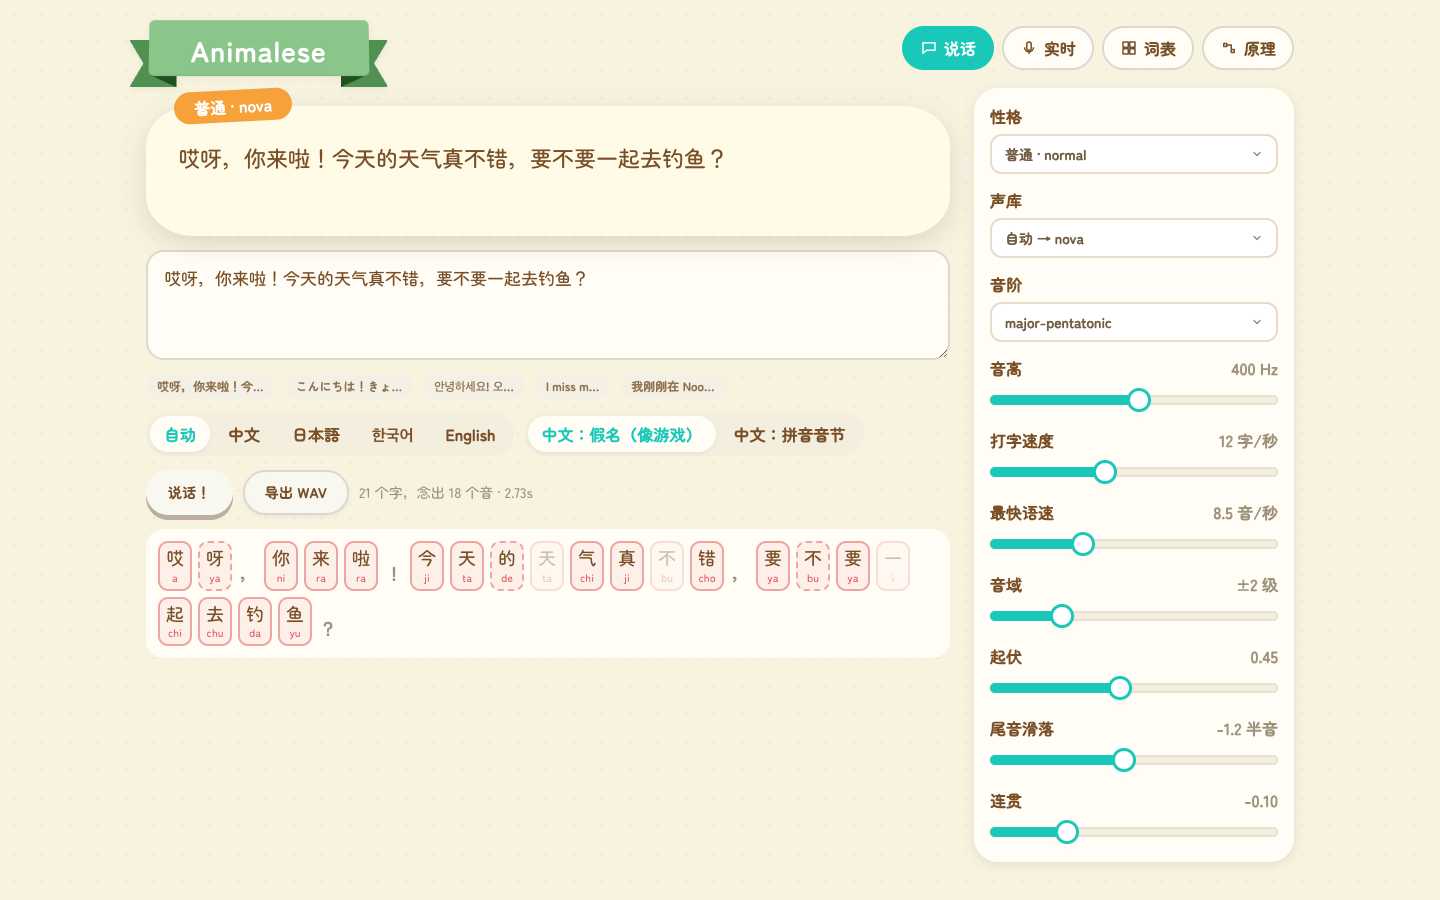
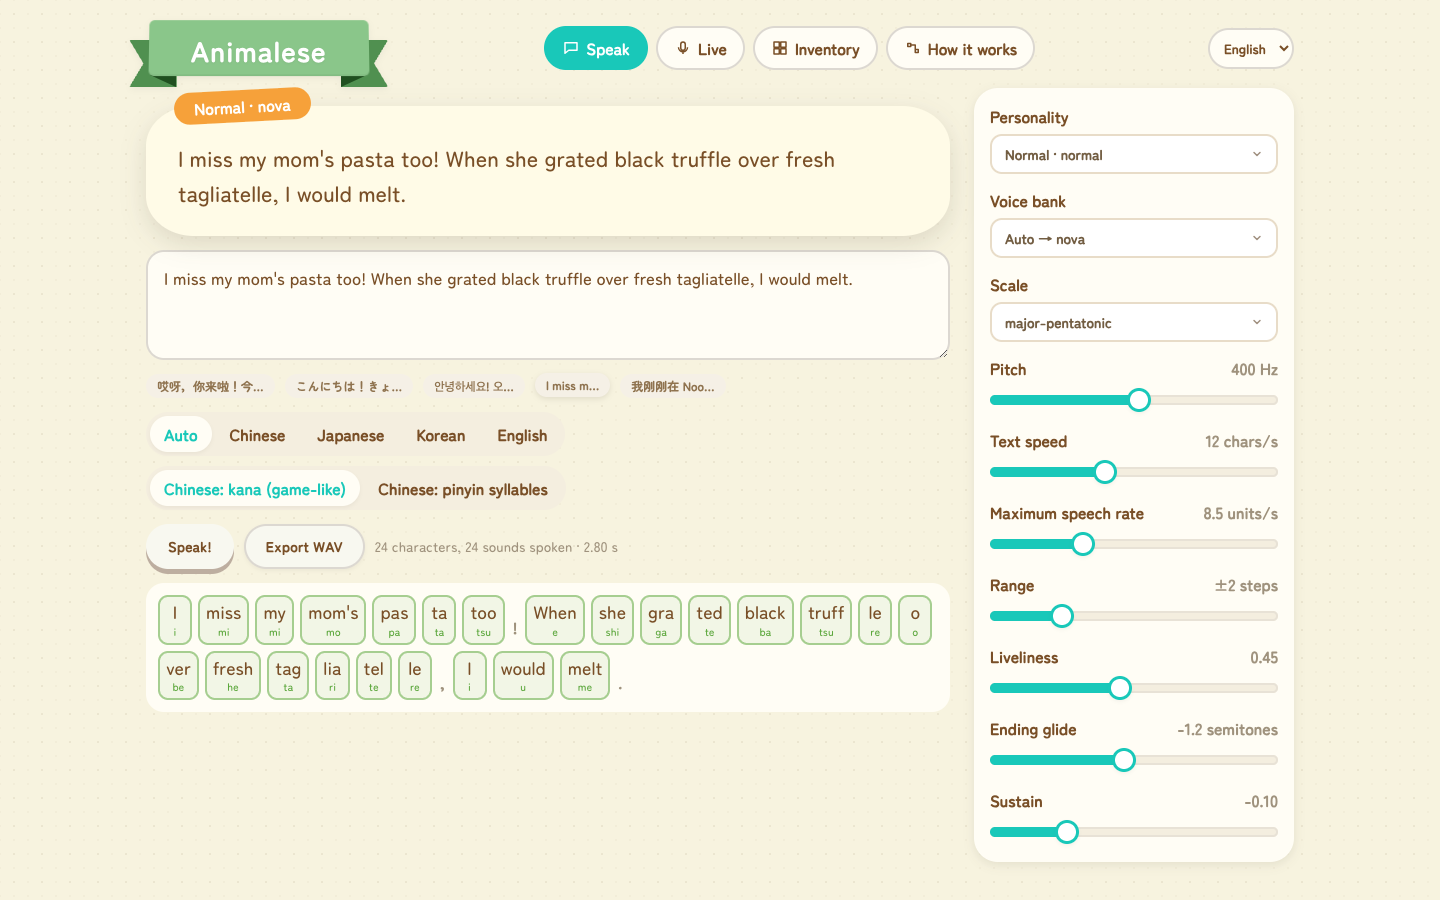
docs: refresh README previews (#3)

diff --git a/README.md b/README.md
@@ -1,12 +1,16 @@
 # `animalese-js`
 
+![animalese-js preview card](./docs/assets/og-image.png)
+
 [![License][license-src]][license-href]
 [![Node.js][node-src]][node-href]
 [![pnpm][pnpm-src]][pnpm-href]
 
-![Animalese playground](./docs/assets/playground.png)
-
 `animalese-js` makes Animal Crossing style speech ("Animalese") in TypeScript. You give it text in Chinese, Japanese, Korean, or English. It gives you the babble that the villagers speak, in time with the dialogue box.
+
+**Playground**
+
+![Animalese playground in English](./docs/assets/playground.png)
 
 The work has two parts:
 
